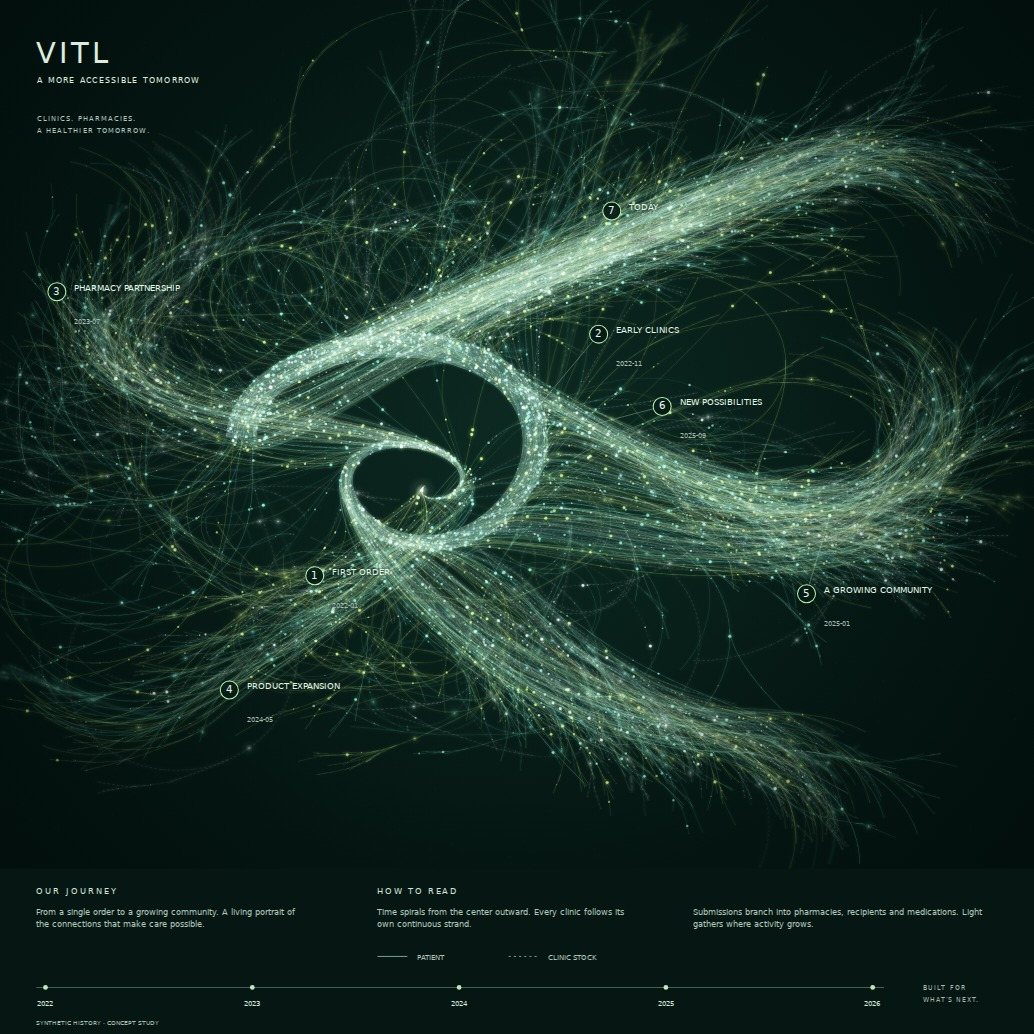
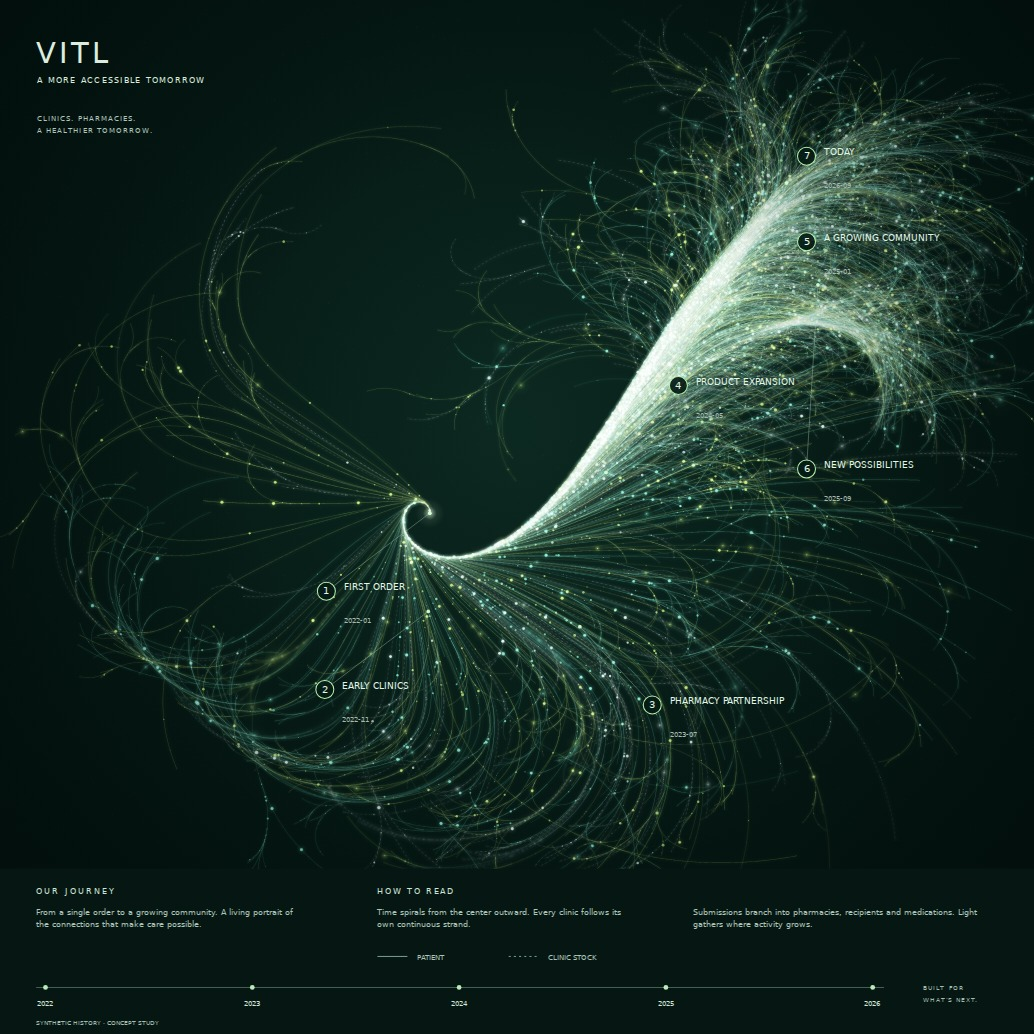
Unfurl the central curl and smooth every branch departure

diff --git a/docs/rendering.md b/docs/rendering.md
@@ -4,12 +4,15 @@
 
 The reference is a square editorial print with a near-black green atmosphere, a compact asymmetric spiral, curving outward streams, fine branching detail, mint/citron/ivory light, selective glow and foreground defocus. The artwork is generated procedurally; the reference is not embedded and no generated background image is used.
 
-Initial development renders were rejected for resembling a broad wheel and a uniform radial spray. The composition instead uses a tighter chronology and five broad flow corridors, with a minority of loose curling paths crossing the negative space. Recent history flows toward the upper-right plume, so later activity increases density there. Corridors are artistic composition choices, not five measured business categories.
+Renderer 1.1 replaces the large central spiral with a small curl that gradually unwinds into the upper-right stream. Branches follow that stream before separating. Recent activity adds density along its later stretch. There are no fixed destination corridors pulling strands back across their parent flow.
 
 ## Geometry
 
-Each clinic follows an offset lane on an asymmetric chronological spiral, from joining through the selected cutoff. Each submission starts on its clinic's analytic path. Most submissions use a smooth cubic steering path and terminal curl; a minority integrate a decaying curvature field. Pharmacy, recipient and medication branches interpolate their exact parent path and inherit its tangent. Pharmacy keys affect fulfillment curvature. Medication counts modestly influence reach as well as the explicit number of leaves.
+Each clinic follows its own chronological lane, from joining through the selected cutoff. Lane radii stay positive and expand, so inner lanes cannot fold across the origin. Each submission starts at an interpolated point on its clinic's actual drawn path.
 
+Every branch, including submissions, inherits the exact parent segment's forward heading. It initially follows the parent's curvature, then smoothly releases into its own curl. The curvature transition uses an integrated smoothstep; the first edge has no angular jump. Pharmacy, recipient and medication branches use the same rule. Pharmacy keys affect fulfillment curvature. Medication counts modestly influence reach as well as the explicit number of leaves.
+
+The first-order light and first milestone attach to the first matching submission instead of a disconnected fixed center point.
 Every entity uses its own seeded random generator. Reordering clinics, pharmacies or submissions does not change the geometry. Direct-JSON fulfillment and recipient array order is part of the input; preserve it to reproduce a study. The renderer does not accumulate frames, so export output is independent of how long the app has been open.
 
 ## Light and depth
@@ -24,10 +27,10 @@ The master is square. The poster reserves its bottom 16% for reading instruction
 
 Exports redraw the same paths and lights at the selected resolution, not an enlarged screenshot. PNG `pHYs` metadata specifies 300 dpi. A 7,200-pixel image is 24 inches at 300 dpi or 30 inches at 240 dpi. The browser produces RGB PNG, not a printer-specific color separation. Verify a proof with the intended paper and printing service. The largest export may exceed a mobile browser's memory, so smaller export options remain available.
 
-Project files reproduce geometry and settings for the indicated renderer version. Font rasterization and Canvas antialiasing can vary by browser and operating system; byte-identical PNGs across engines are not promised. System sans-serif fonts are used without network font requests.
+New projects use renderer 1.1.0. Saved 1.0.0 projects retain their original geometry through a frozen compatibility module; **Reset style** adopts the current renderer. Project files reproduce geometry and settings for the indicated renderer version. Font rasterization and Canvas antialiasing can vary by browser and operating system; byte-identical PNGs across engines are not promised. System sans-serif fonts are used without network font requests.
 
 ## Verification
 
-Node tests check exact multi-pharmacy hierarchy counts, finite positions, parent/child continuity, deterministic geometry, timeline cutoff, sampling disclosure, medication-count counterfactuals, rejected input, project round trips, CSV grouping/key removal and PNG density metadata.
+Node tests check exact multi-pharmacy hierarchy counts, finite positions, exact parent/child attachment and forward departure angles at every branch level, positive expanding clinic lanes, deterministic geometry, timeline cutoff, sampling disclosure, medication-count counterfactuals, rejected input, current and legacy project round trips, CSV grouping/key removal and PNG density metadata.
 
 The optional browser script exercises real imports, seed changes, project save/reopen, PNG downloads, main-thread fallback, worker rendering, mobile layout and full-size export. The browser report records the tested environment and external network requests. Preview and test fixtures use synthetic data exclusively.

diff --git a/readme.md b/readme.md
@@ -1,6 +1,6 @@
 # Cowpaths
 
-A generative-art studio for turning company history into luminous, branching strands. The VITL study uses an asymmetric spiral, flowing plumes, hairline paths, mint/citron light, soft depth, and a print-oriented editorial layout.
+A generative-art studio for turning company history into luminous, branching strands. The VITL study uses a small curl that unfurls into a rising stream, flowing plumes, hairline paths, mint/citron light, soft depth, and a print-oriented editorial layout.
 
 ![Synthetic VITL history rendered by Cowpaths](docs/preview.jpg)
 
@@ -30,7 +30,7 @@ The studio uses native JavaScript modules and Canvas 2D. Geometry and rendering 
 - Adjust seed, branch reach, flow variation, palette, bloom, exposure, focus and depth softness.
 - Toggle milestone annotations and the poster typography/legend.
 - Export a square PNG at 2,048, 4,096 or 7,200 pixels. The latter is 24 × 24 inches at 300 dpi. PNG physical-density metadata is included.
-- Save the validated input and settings as a versioned JSON project.
+- Save the validated input and settings as a versioned JSON project. Older projects retain their original flow; **Reset style** adopts the current geometry.
 - Choose a submission budget. Above that budget, a deterministic sample is explicitly reported; the renderer never invents replacement submissions.
 
 ## Use your company history
@@ -62,7 +62,7 @@ Keep raw exports outside this public repository. `private-data/` and `*.local.js
 | More activity | More overlapping actual trajectories and light |
 | Public milestone | Numbered leader anchored to that month |
 
-This is an artistic encoding, not a quantitative dashboard. Path length, depth, five broad flow corridors, light particles and palette variation are composed rather than measured. Recipient counts describe fulfillment recipients, **not distinct patients across the company**. Grain and point lights are decorative, not additional submissions. See [rendering notes](docs/rendering.md) for the explicit limits.
+This is an artistic encoding, not a quantitative dashboard. Path length, depth, free curls, light particles and palette variation are composed rather than measured. Recipient counts describe fulfillment recipients, **not distinct patients across the company**. Grain and point lights are decorative, not additional submissions. See [rendering notes](docs/rendering.md) for the explicit limits.
 
 ## Original particle experiment
 
@@ -79,7 +79,7 @@ The historical dependency set is preserved. The new studio does not import it. O
 
 ## Verification
 
-`npm test` runs ten contracts covering hierarchy counts, branch continuity, determinism, timeline cutoffs, sampling, medication-count changes, input rejection, project round trips, CSV conversion and PNG density metadata.
+`npm test` runs twelve contracts covering hierarchy counts, branch attachment and departure angles, expanding clinic lanes, determinism, timeline cutoffs, sampling, medication-count changes, input rejection, current and legacy project round trips, CSV conversion and PNG density metadata.
 
 An optional browser integration check requires a separately supplied Playwright installation and Chromium binary:
 
@@ -94,7 +94,8 @@ It checks the worker and fallback renderer, imports, invalid-file handling, proj
 | File | Responsibility |
 | --- | --- |
 | `src/journey/data.mjs` | Input validation and synthetic history |
-| `src/journey/scene.mjs` | Deterministic hierarchy and geometry |
+| `src/journey/scene.mjs` | Deterministic hierarchy and current geometry |
+| `src/journey/scene-v1.mjs` | Original geometry for saved 1.0.0 projects |
 | `src/journey/render.mjs` | Strands, light, labels and poster layout |
 | `src/journey/worker.mjs` | Background rendering and PNG encoding |
 | `src/journey/project.mjs` | Project format and print-density metadata |

diff --git a/docs/data-format.md b/docs/data-format.md
@@ -91,4 +91,6 @@ The adapter deliberately does not guess a database query. Select production tabl
 
 ## Projects
 
-**Save project** writes a `cowpaths-project` object with version 1, renderer version 1.0.0, validated history and composition settings. Reopen it with the same input control. It contains a copy of the history. No browser storage is used, so save before closing the tab if you want to retain your study.
+**Save project** writes a `cowpaths-project` object with version 1, renderer version 1.1.0 for new studies, validated history and composition settings. Reopen it with the same input control. It contains a copy of the history. No browser storage is used, so save before closing the tab if you want to retain your study.
+
+Projects saved with renderer 1.0.0 reopen with their original flow. Choose **Reset style** to adopt the current geometry and default composition settings, then save a new project. Unsupported or conflicting renderer versions are rejected.
